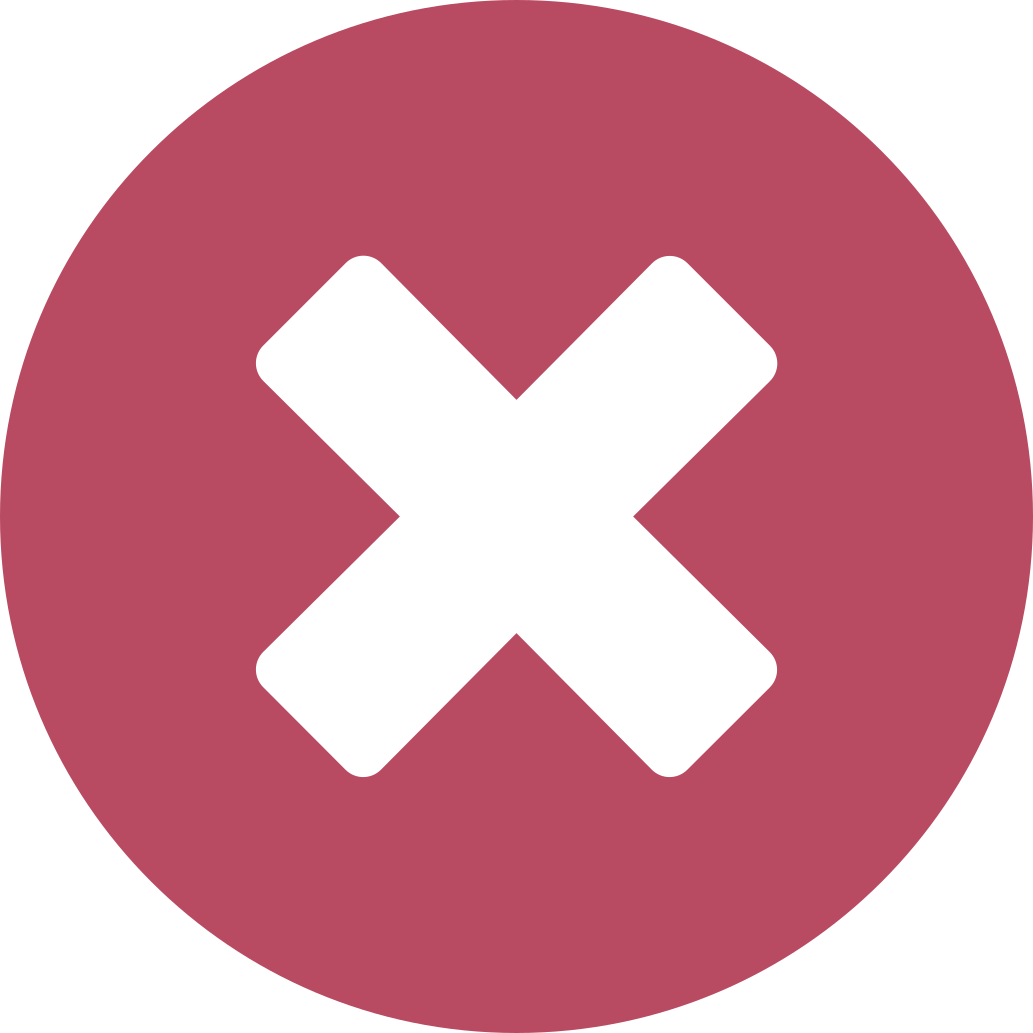
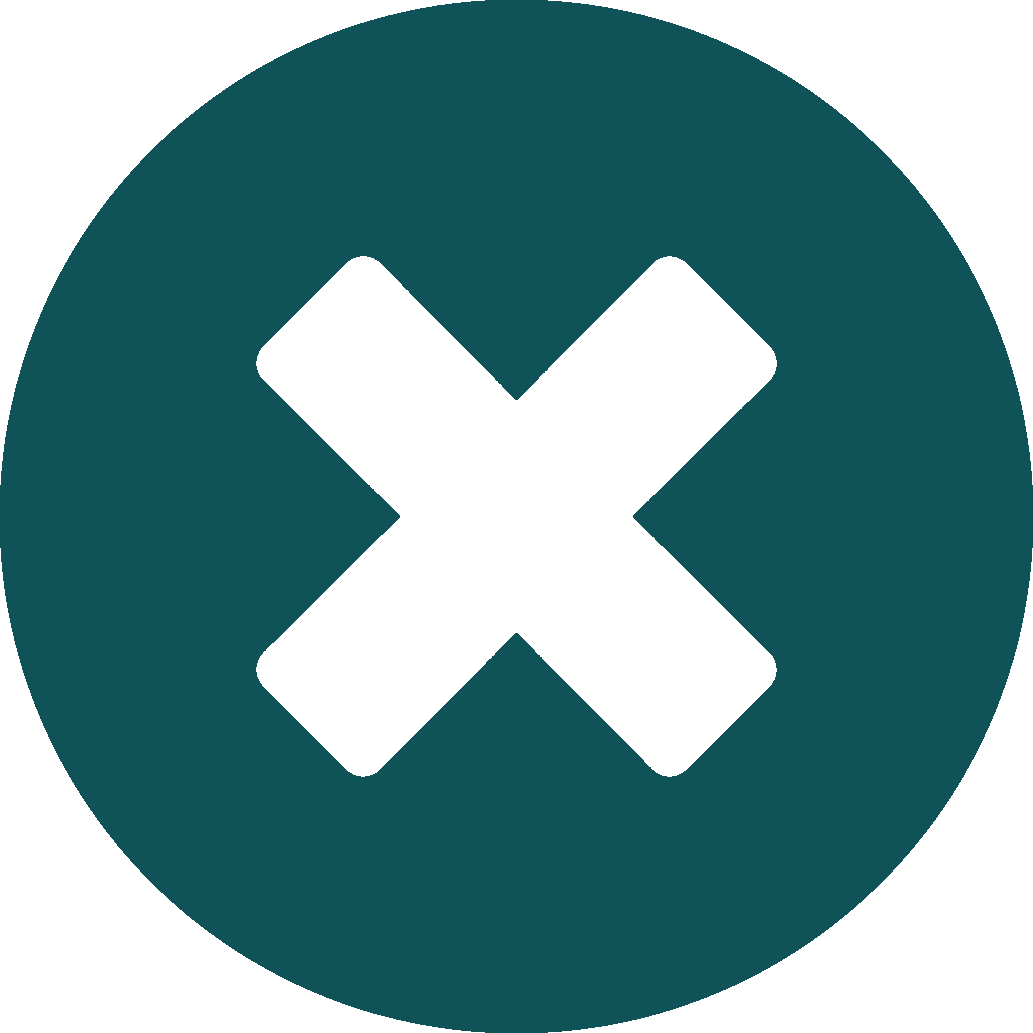
Redesigned the UI

diff --git a/src/styles.css b/src/styles.css
@@ -1,45 +1,49 @@
 .text-color {
-    -fx-text-fill: #f1f0cc;
+    -fx-text-fill: #000000;
 }
 
 .lbl {
-    -fx-font-size: 11;
+    -fx-font-size: 14;
 }
 
 .btn {
     /* Top-Bottom Right-Left */
-    -fx-padding: 8 10;
-    -fx-border-color: #f26419;
+    -fx-border-color: #0b3142;
     -fx-border-width: 2;
     -fx-border-radius: 5;
-    -fx-background-color: transparent;
+    -fx-padding: 8 10;
+    -fx-background-color: #0b3142;
+    -fx-background-radius: 5;
+    -fx-text-fill: #d6d3f0;
     -fx-alignment: center;
 }
 
 .btn:hover {
-    -fx-background-color: #f26419;
-    -fx-background-radius: 5;
+    -fx-border-color: #0f5257;
+    -fx-border-width: 2;
+    -fx-border-radius: 5;
+    -fx-background-color: #0f5257;
 }
 
 .text-field {
     -fx-background-color: transparent;
-    -fx-text-fill: #f1f0cc;
-    -fx-accent: #f26419;
-    -fx-font-size: 13;
-    -fx-border-color: #0d1321;
+    -fx-text-fill: #000000;
+    -fx-accent: #0f5257;
+    -fx-font-size: 16;
+    -fx-border-color: #0b3142;
     -fx-border-width: 0 0 1 0;
 }
 
 .text-field:focused {
     -fx-background-color: transparent;
-    -fx-text-fill: #f1f0cc;
-    -fx-border-color: #f26419;
+    -fx-text-fill: #0b3142;
+    -fx-border-color: #0f5257;
     -fx-border-width: 0 0 1.5 0;
 }
 
 .brd {
     -fx-padding: 8;
-    -fx-border-color: #0d1321;
+    -fx-border-color: #0b3142;
     -fx-border-width: 2;
     -fx-border-radius: 5;
 }

diff --git a/src/Main.java b/src/Main.java
@@ -29,20 +29,20 @@ public class Main extends Application {
 	HBox root = new HBox();
 
 	VBox vbxRow1 = new VBox(10);
-	vbxRow1.setPrefWidth(150);
+	vbxRow1.setPrefWidth(200);
 	vbxRow1.setStyle(
-		"-fx-background-color: #0d1321;");
+		"-fx-background-color: #0b3142;");
 	HBox hbxLogo = new HBox(5);
-	hbxLogo.setPrefSize(150, 55);
+	hbxLogo.setPrefSize(200, 55);
 	hbxLogo.setStyle(
-		"-fx-background-color: #f26419;");
+		"-fx-background-color: #0f5257;");
 	vbxRow1.getChildren().addAll(hbxLogo);
 
 
 	VBox vbxRow2 = new VBox(25);
-	vbxRow2.setPrefWidth(550);
+	vbxRow2.setPrefWidth(650);
 	vbxRow2.setStyle(
-		"-fx-background-color: #2f4858;");
+		"-fx-background-color: #9c92a3;");
 
 	HBox hbxNavBar = new HBox(5);
 	Button btnClose = new Button();
@@ -84,20 +84,12 @@ public class Main extends Application {
 	hbxTitle.setPrefSize(250, 30);
 	// Set the max width so that the hbx does not scale up to fill the vbx
 	hbxTitle.setMaxWidth(250);
-	// Set the background color. If i dont the shadow wont show
-	hbxTitle.setStyle(
-		"-fx-background-color: #2f4858;" +
-		"-fx-background-radius: 2.0;");
-	// Add shadow to give a raised card effect
-	// DropShadow dsEffect = new DropShadow();
-	// dsEffect.setOffsetX(0.0);
-	// dsEffect.setOffsetY(0.0);
-	// hbxTitle.setEffect(dsEffect);
+	hbxTitle.setStyle("-fx-background-radius: 2.0;");
 	// Add a label to the title
 	Label lblTitle = new Label("Cars");
 	lblTitle.setStyle(
-		"-fx-text-fill: #f1f0cc;" +
-		"-fx-font-size: 20px;" +
+		"-fx-text-fill: #0b3142;" +
+		"-fx-font-size: 23px;" +
 		"-fx-font-weight: bolder;");
 	// Center the label in the hbox
 	hbxTitle.setAlignment(Pos.CENTER);
@@ -109,15 +101,12 @@ public class Main extends Application {
 	hbxNavBar.setAlignment(Pos.TOP_RIGHT);
 
 	// Offset the title from the right to make it appear centered
-	hbxNavBar.setMargin(hbxTitle, new Insets(10, 110, 0, 0));
+	hbxNavBar.setMargin(hbxTitle, new Insets(10, 160, 0, 0));
 	
 	HBox hbxContent = new HBox(10);
-	hbxContent.setPrefSize(500, 320);
-	hbxContent.setMaxWidth(500);
+	hbxContent.setMaxWidth(600);
 	// Set the bg color
-	hbxContent.setStyle(
-		"-fx-background-color: #2f4858;" +
-		"-fx-background-radius: 2.0;");
+	hbxContent.setStyle("-fx-background-radius: 2.0;");
 
 	// Add the employee root element
 	Cars cars = new Cars();

diff --git a/src/Cars.java b/src/Cars.java
@@ -79,7 +79,7 @@ public class Cars {
 	lblOwnerIdNumber.setMnemonicParsing(true);
 
 	GridPane grdFields = new GridPane();
-	grdFields.setVgap(20);
+	grdFields.setVgap(25);
 	grdFields.setHgap(10);
 	grdFields.setMaxWidth(Double.MAX_VALUE);
 	// grdFields.setGridLinesVisible(true);
